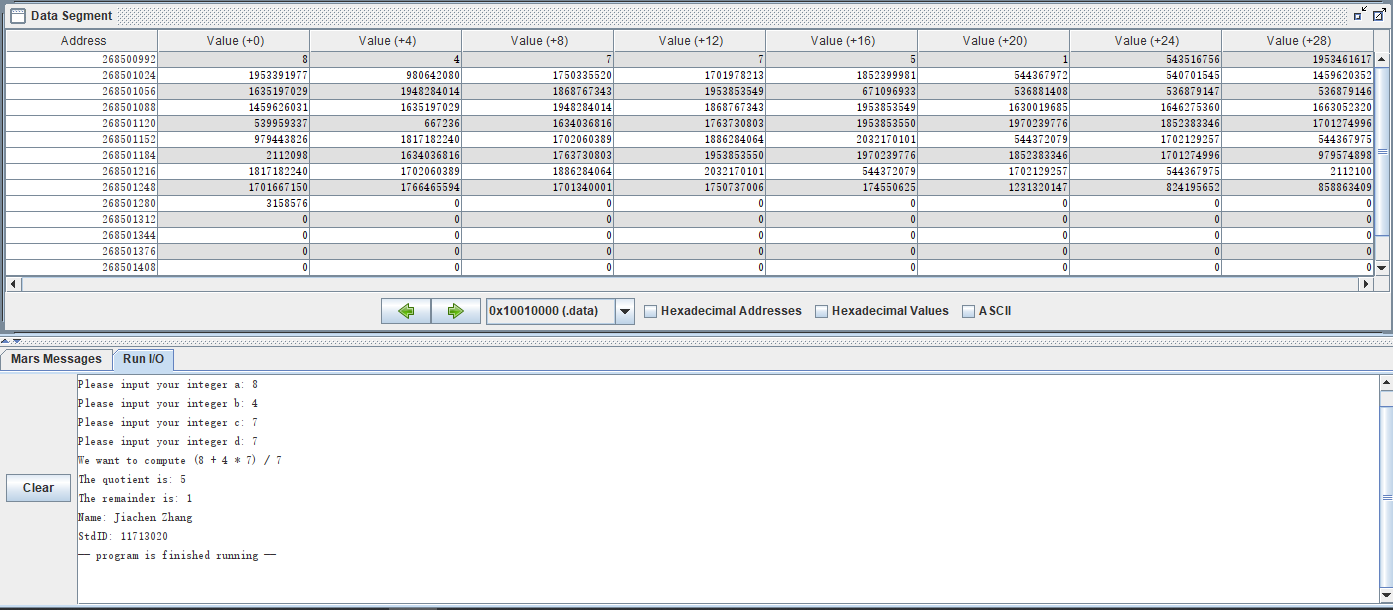
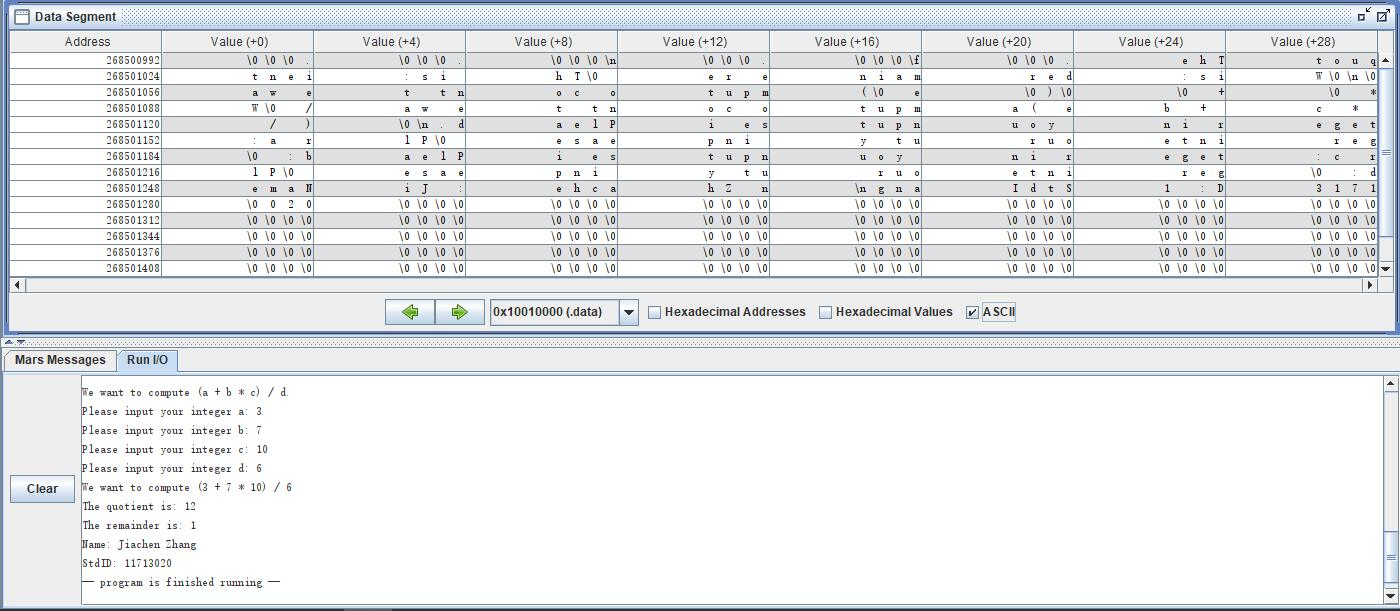
finish report

Changed region(s): [[0.0, 0.0, 1.0, 0.9967], [0.2469, 0.9967, 0.3396, 1.0]]

diff --git a/doc/Lab-Report/Lab2-Report.md b/doc/Lab-Report/Lab2-Report.md
@@ -1,12 +1,32 @@
+<center><font size="6">计算机组成原理实验报告</font><center/>
+
+<center>姓名： 张佳晨              学号：11713020<center/>
+
+
 ## 一、 实验目的
 
+1. Learn about compilers translating assembly language into machine language, which can be executed directly on a specific computer.
 
+2. Learn to code assembly language called MIPS and use the assembler named MARS.
+
+3. Know the differences between high-level programming language (like Java) and the assembly language (like MIPS).
+
+4. Understand the process of MIPS's processing instructions, including data loading and storing, registers and three kind of addressing (load address, indirect addressing and based or indexed addressing).
+
+5. Learn to use Arithmetic instructions and system calls(dominantly about I/O processing).
 
 ## 二、 实验内容
 
-
+1. Use `.data` to make data declare section, which follows the program code section, to declare user defined variables.
+2. Use system calls to prompt users inputting an integer and store it.
+3. Use load instructions to load data on the memory.
+4. Use arithmetic instructions to make computations.
+5. Use indexed addressing and load byte instruction to get a character, which occupies only one byte.
+6. Make use of the registers to help processing data.
 
 ## 三、 实验步骤（阐述代码思路或操作步骤）
+
+> 代码思路与操作步骤均在详细的注释中展示
 
 ### Problem 1.1
 
@@ -347,7 +367,6 @@ main:                       # execution starts here
 
 lowerToUpper:
     la $a0, str
-    lw $v0, ($a0)
     lb $t1, 0($a0)
     lb $t2, 1($a0)
     lb $t3, 2($a0)
@@ -394,10 +413,38 @@ print_str2: .asciiz "> to upper case\n"
 
 ### Problem 1.2
 
-![1551178459536](F:\Github\Computer_Organization\doc\Lab-Report\1.2-1)
+![1551178459536](1.2-1)
+
+> I set a, b, c, d equals 4, 3, 1, 6, respectively.
+
+> The result is (4 + 3 * 1)  / 6 = 1 ······ 1
+
+![1551178459536](1.2-2.jpg)
+
+> I set a, b, c, d equals 3, 7, 10, 6, respectively.
+
+> The result is (3 + 7 * 10)  / 6 = 12 ······ 1
+
+### Problem 2
+
+![1551178459536](2.jpg)
+
+> I change the string `abc` to `ABC` at the same memory address.
 
 ## 五、 实验分析（遇到的问题以及解决方案）
 
+P1: I could not directly use the arithmetic instruction to processing data on the memory.
 
+> Arithmetic instruction only compute data on the registers.
+
+P2: I could not get the `a` by using `lw` instruction.
+
+> The character `a` store in one byte while `lw` instruction access one word data, which is four bytes.
+>
+> So in order to get only `a`, I need to use `lb` instruction and the indexed access addressing to get `b` and `c`.
 
 ## 六、 实验小结与体会
+
+1. For assembly language, instructions executing is based on the address and only has the ability to compute data on the registers directly, so the data accessing, loading and storing is a significant procedure for assembly code. 
+2. The comments is very important for writing assembly codes as one simple instruction (for high-level language) is constructed by many assembly instruction, because of the data accessing.
+3. I should have a clearly concept about whether I am going to get address or the data on the memory which has the specific address.
